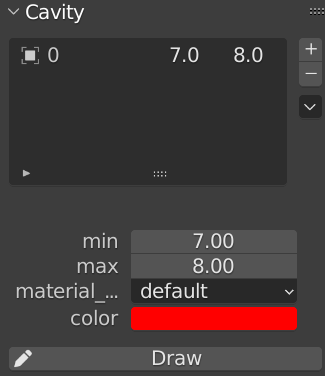
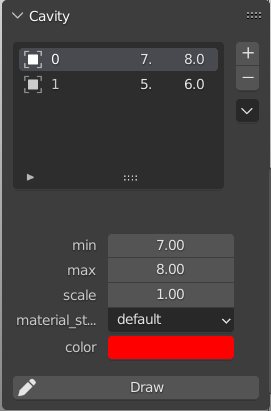
add cavity in python section

diff --git a/docs/source/python/cavity.rst b/docs/source/python/cavity.rst
@@ -1,0 +1,64 @@
+.. module:: batoms.plugins.cavity
+
+===============================
+The Cavity object
+===============================
+
+The :class:`Cavity` object is used to search and draw cavity for :class:`Batoms`. It has a ``settings`` attribute (:class:`CavitySettings` object), which stores and set all parameters related to cavity data. Possible keywords for settings are: ``min``, ``max``, ``scale``, ``material_style`` and ``color``. 
+
+
+Here we show an example of drawing cavities for MOF-5. First, we read a MOF-5 structure.
+
+>>> from ase.io import read
+>>> from batoms import Batoms
+>>> atoms = read("mof-5.cif")
+>>> mof = Batoms(label = "mof", from_ase = atoms)
+>>> # make a supercell in a direction.
+>>> mof *= [2, 1, 1]
+>>> # change width of cell
+>>> mof.cell.width = 0.05
+
+There is no default settings, as shown bellow:
+
+>>> mof.cavity.settings
+Name       min   max   scale                color  
+------------------------------------------------------------
+
+
+Auto-search cavity
+---------------------
+First, we call the `draw` function to auto-search and draw the cavities.
+
+>>> mof.cavity.draw()
+
+.. image:: /images/python_cavity_mof_5_0.png
+   :width: 10cm
+
+After that, two different cavities (names are `"0"` and `"1"`) with different radii are found.
+
+>>> mof.cavity.settings
+Name       min   max   scale                color  
+0      7.000   8.000   1.000   [1.00  0.00  0.00  1.00] 
+1      5.000   6.000   1.000   [0.00  1.00  0.00  1.00] 
+------------------------------------------------------------
+
+The `min` and `max` parameters are the range of the radius of that cavity. The `scale` parameter is used to change the size of the sphere used to represent the cavity.
+
+One change the settings. 
+
+>>> # change the size of `0` by half of the original.
+>>> mof.cavity.settings['0'].scale = 0.5
+>>> # change the color of `1`.
+>>> mof.cavity.settings['1'].color = [1, 1, 0, 1]
+>>> mof.cavity.draw()
+
+
+.. image:: /images/python_cavity_mof_5_1.png
+   :width: 10cm
+
+
+GUI
+---------
+One can also set the cavity using GUI panel. Please read :ref:`gui_cavity` page for more setup.
+
+

diff --git a/docs/source/python/molecular_surface.rst b/docs/source/python/molecular_surface.rst
@@ -4,7 +4,7 @@
 The MolecularSurface object
 =============================
 
-The :class:`MolecularSurface` object is used draw molecular surface for :class:`Batoms`. It has a ``settings`` attribute (:class:`MolecularSurfaceSettings` object), which store and set all parameters related with molecular surface. Here the molecular surface includes:
+The :class:`MolecularSurface` object is used to draw molecular surface for :class:`Batoms`. It has a ``settings`` attribute (:class:`MolecularSurfaceSettings` object), which stores and sets all parameters related to molecular surface. Here the molecular surface includes:
 
     - Solvent accessible surface (SAS)
     - van der Waals surface, a special case of SAS with probe radius equal to 0)
@@ -56,7 +56,7 @@ The isosurface then build by the BVH algorithm.
 Solvent accessible surface
 ===========================
 
-Here we show a example of draw SAS for the protein kras.
+Here we show an example of drawing SAS for the protein kras.
 
 >>> from ase.io import read
 >>> from batoms import Batoms
@@ -77,7 +77,7 @@ You can get the solvent accessible surface area (SASA) by:
 Solvent-excluded surface
 ===========================
 
-Here we show a example of draw SES for the protein kras.
+Here we show an example of drawing SES for the protein kras.
 
 >>> from ase.io import read
 >>> from batoms import Batoms

diff --git a/docs/source/advanced/cavity.rst b/docs/source/advanced/cavity.rst
@@ -4,22 +4,22 @@ Cavity
 ============================
 
 
-sphere
------------
+Sphere model
+--------------
 
-The :meth:`~Batoms.draw_cavity_sphere` function is to draw a sphere to represent a cavity in porous materials. We find the cavity with a grid based algorithm. Here we search cavity with radius larger than 9.0 in the MOF-5 crystal.
+The :meth:`~Batoms.plugins.cavity.Cavity` class is used to draw a sphere to represent a cavity in porous materials. We find the cavity with a grid based algorithm. Here we search cavity in the MOF-5 crystal.
 
 
 >>> from ase.io import read
 >>> from batoms import Batoms
 >>> from batoms.draw import draw_plane
 >>> atoms = read("docs/source/_static/datas/mof-5.cif")
->>> mof = Batoms(label = "mof-5", from_ase = atoms)
+>>> mof = Batoms(label = "mof", from_ase = atoms)
 >>> mof["H"].color = [0.6, 0, 1.0, 1.0]
 >>> mof["C"].color = [0.0, 0.6, 0.1, 1.0]
 >>> mof.polyhedra.settings["Zn"].color = [0.1, 0.4, 0.7, 1.0]
 >>> mof.model_style = 2
->>> mof.draw_cavity_sphere(9.0, boundary = [[0.2, 0.8], [0.2, 0.8], [0.2, 0.8]])
+>>> mof.cavity.draw()
 
 
 .. image:: /images/gallery_cavity.png

diff --git a/docs/source/python/lattice_plane.rst b/docs/source/python/lattice_plane.rst
@@ -4,10 +4,10 @@
 The LatticePlane object
 ================================
 
-The :class:`LatticePlane` object is used draw molecular surface for :class:`Batoms`. It has a ``settings`` attribute (:class:`LatticePlaneSettings` object), which store and set all parameters related with lattice plane data. It should always bind with a :class:`Batoms` object. Possible keywords are: ``indices``, ``distance``, ``crystal``, ``symmetry`` and ``color``. 
+The :class:`LatticePlane` object is used to draw molecular surface for :class:`Batoms`. It has a ``settings`` attribute (:class:`LatticePlaneSettings` object), which stores and sets all parameters related to lattice plane data. Possible keywords are: ``indices``, ``distance``, ``crystal``, ``symmetry`` and ``color``. 
 
 
-Here we show a example of insert a lattice plane in the unit cell.
+Here we show an example of inserting a lattice plane in the unit cell.
 
 >>> from batoms.build import bulk
 >>> au = bulk('au', 'Au', cubic = True)

diff --git a/docs/source/python/crystal_shape.rst b/docs/source/python/crystal_shape.rst
@@ -4,10 +4,10 @@
 The CrystalShape object
 ===============================
 
-The :class:`CrystalShape` object is used draw molecular surface for :class:`Batoms`. It has a ``settings`` attribute (:class:`CrystalShapeSettings` object), which store and set all parameters related with lattice plane data. It should always bind with a :class:`Batoms` object. Possible keywords are: ``indices``, ``distance``, ``crystal``, ``symmetry`` and ``color``. 
+The :class:`CrystalShape` object is used to draw molecular surface for :class:`Batoms`. It has a ``settings`` attribute (:class:`CrystalShapeSettings` object), which stores and sets all parameters related to lattice plane data. Possible keywords are: ``indices``, ``distance``, ``crystal``, ``symmetry`` and ``color``. 
 
 
-Here we show a example of insert a lattice plane in the unit cell.
+Here we show an example of drawing a crystal shape.
 
 >>> from batoms.build import bulk
 >>> au = bulk('au', 'Au', cubic = True)

diff --git a/docs/source/python/isosurfaces.rst b/docs/source/python/isosurfaces.rst
@@ -4,10 +4,10 @@
 The Isosurface object
 =============================
 
-The :class:`Isosurface` object is used draw isosurface for :class:`Batoms`. It has a ``settings`` attribute (:class:`IsosurfaceSettings` object), which store and set all parameters related with volumetric data. It should always bind with a :class:`Batoms` object. Possible keywords for ``settings`` are: ``level``, ``color``. 
+The :class:`Isosurface` object is used to draw isosurface for :class:`Batoms`. It has a ``settings`` attribute (:class:`IsosurfaceSettings` object), which stores and sets all parameters related to volumetric data. Possible keywords for ``settings`` are: ``level``, ``color``. 
 
 
-Here we show a example of draw isosurfaces from cube file.
+Here we show an example of drawing isosurfaces from cube file.
 
 >>> from ase.io.cube import read_cube_data
 >>> from batoms import Batoms

diff --git a/docs/source/python/bonds.rst b/docs/source/python/bonds.rst
@@ -4,7 +4,7 @@
 The Bond object
 ========================
 
-The :class:`Bond` object is used draw bond for :class:`Batoms`. It has a ``settings`` attribute (:class:`BondSettings` object), which store and set all parameters related with bonds. Possible keywords for ``settings`` are: ``symbol1``, ``symbol2``, ``min``, ``max``, ``search``, ``polyhedra``, ``color1``, ``color2``, ``bondlinewidth``, ``style``, ``material_style``.
+The :class:`Bond` object is used to draw bond for :class:`Batoms`. It has a ``settings`` attribute (:class:`BondSettings` object), which stores and sets all parameters related to bonds. Possible keywords for ``settings`` are: ``symbol1``, ``symbol2``, ``min``, ``max``, ``search``, ``polyhedra``, ``color1``, ``color2``, ``bondlinewidth``, ``style``, ``material_style``.
 
 
 >>> from ase.build import molecule

diff --git a/docs/source/python/polyhedras.rst b/docs/source/python/polyhedras.rst
@@ -4,7 +4,7 @@
 The Polyhedra object
 ===========================
 
-The :class:`Polyhedra` object is used draw polyhedra for :class:`Batoms`. It has a ``settings`` attribute (:class:`PolyhedraSettings` object), which store and set all parameters related with polyhedra. Possible keywords for ``settings`` are: ``symbol``, ``color`` and ``linewidth``. 
+The :class:`Polyhedra` object is used to draw polyhedra for :class:`Batoms`. It has a ``settings`` attribute (:class:`PolyhedraSettings` object), which stores and sets all parameters related with polyhedra. Possible keywords for ``settings`` are: ``symbol``, ``color`` and ``linewidth``. 
 
 
 

diff --git a/docs/source/interface/sidebar/gui_cavity.rst b/docs/source/interface/sidebar/gui_cavity.rst
@@ -6,14 +6,19 @@ Cavity
 ==============
 
 
-This panel is used to set and draw the cavity for porous structure.
+This panel is used to set and draw the cavity for the porous structure.
 
 .. image:: /images/gui_cavity.png
    :width: 5 cm
    :align: right
 
 
-Here is a example to find and draw cavity (as a sphere) in MOF-5 crystal.
+Here is an example to find and draw cavities (as a sphere) in MOF-5 crystal.
+
+#. import MOF-5 structure.
+#. go to the cavity panel, and click `draw`
+#. choose the cavity, and change the parameters for a new setting
+
 
 .. image:: /images/gallery_cavity.png
    :width: 10 cm

diff --git a/docs/source/python/index.rst b/docs/source/python/index.rst
@@ -26,6 +26,7 @@ Here are the main classes of Beautiful Atoms.
    molecular_surface
    lattice_plane
    crystal_shape
+   cavity
 
 
 
